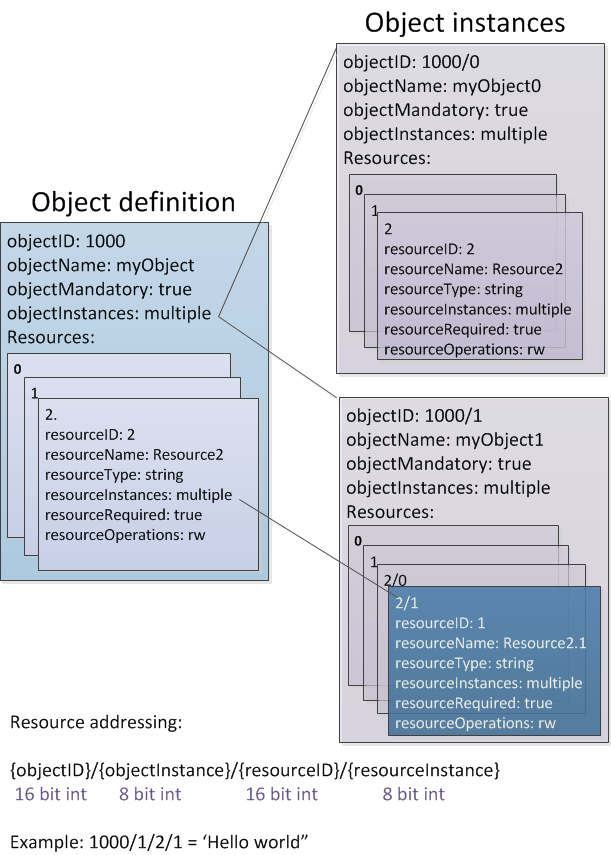
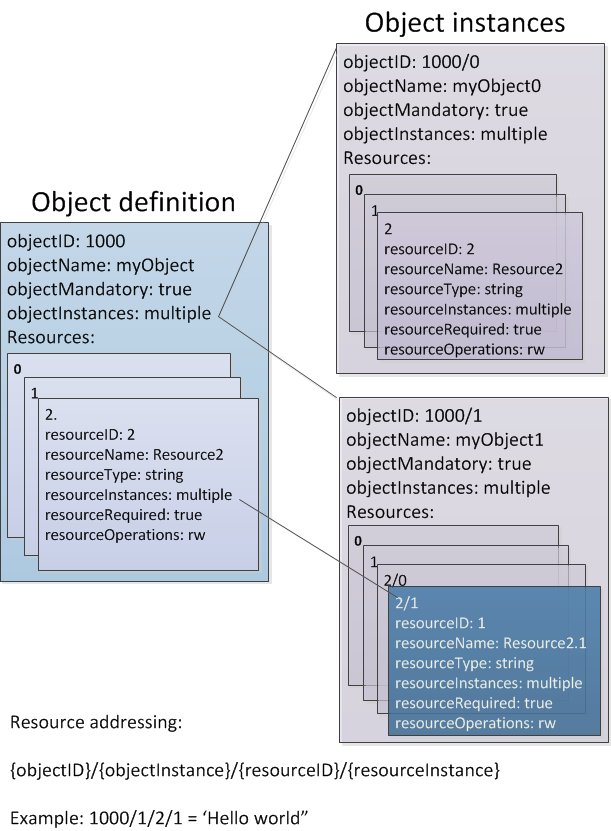
updated user guide 'documents' section, updated LWM2M_object_referencing.png

diff --git a/doc/userguide.md b/doc/userguide.md
@@ -77,7 +77,7 @@ LWM2M is based on an object model such that:
 * The OMA has pre-defined objects suitable for most cases, but custom objects may still be defined for local use. 
 * One or more instances of a resource may exist simultaneously within an object but each will have a unique instance identifier.
 
-Object and resource identifiers are 16 bit integers. Object and resource *instance* identifiers are 8 bit integers. 
+Object and resource identifiers are 16 bit integers.
 
 A resource instance is accessed via its parent object instance using a semantic approach:
 
